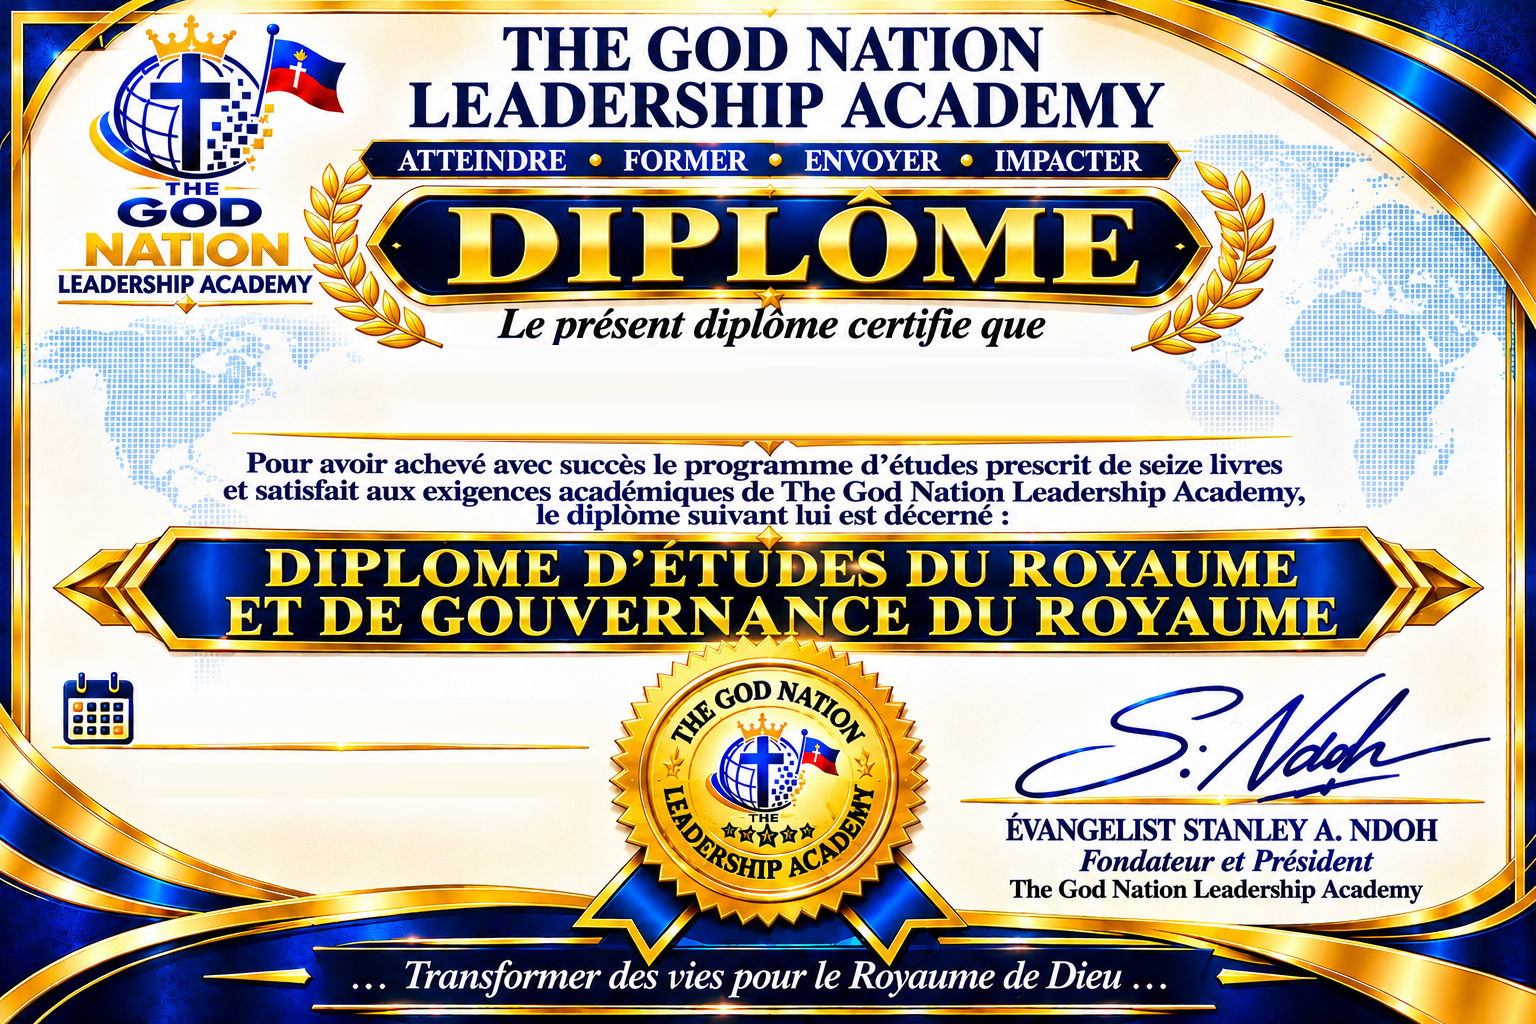
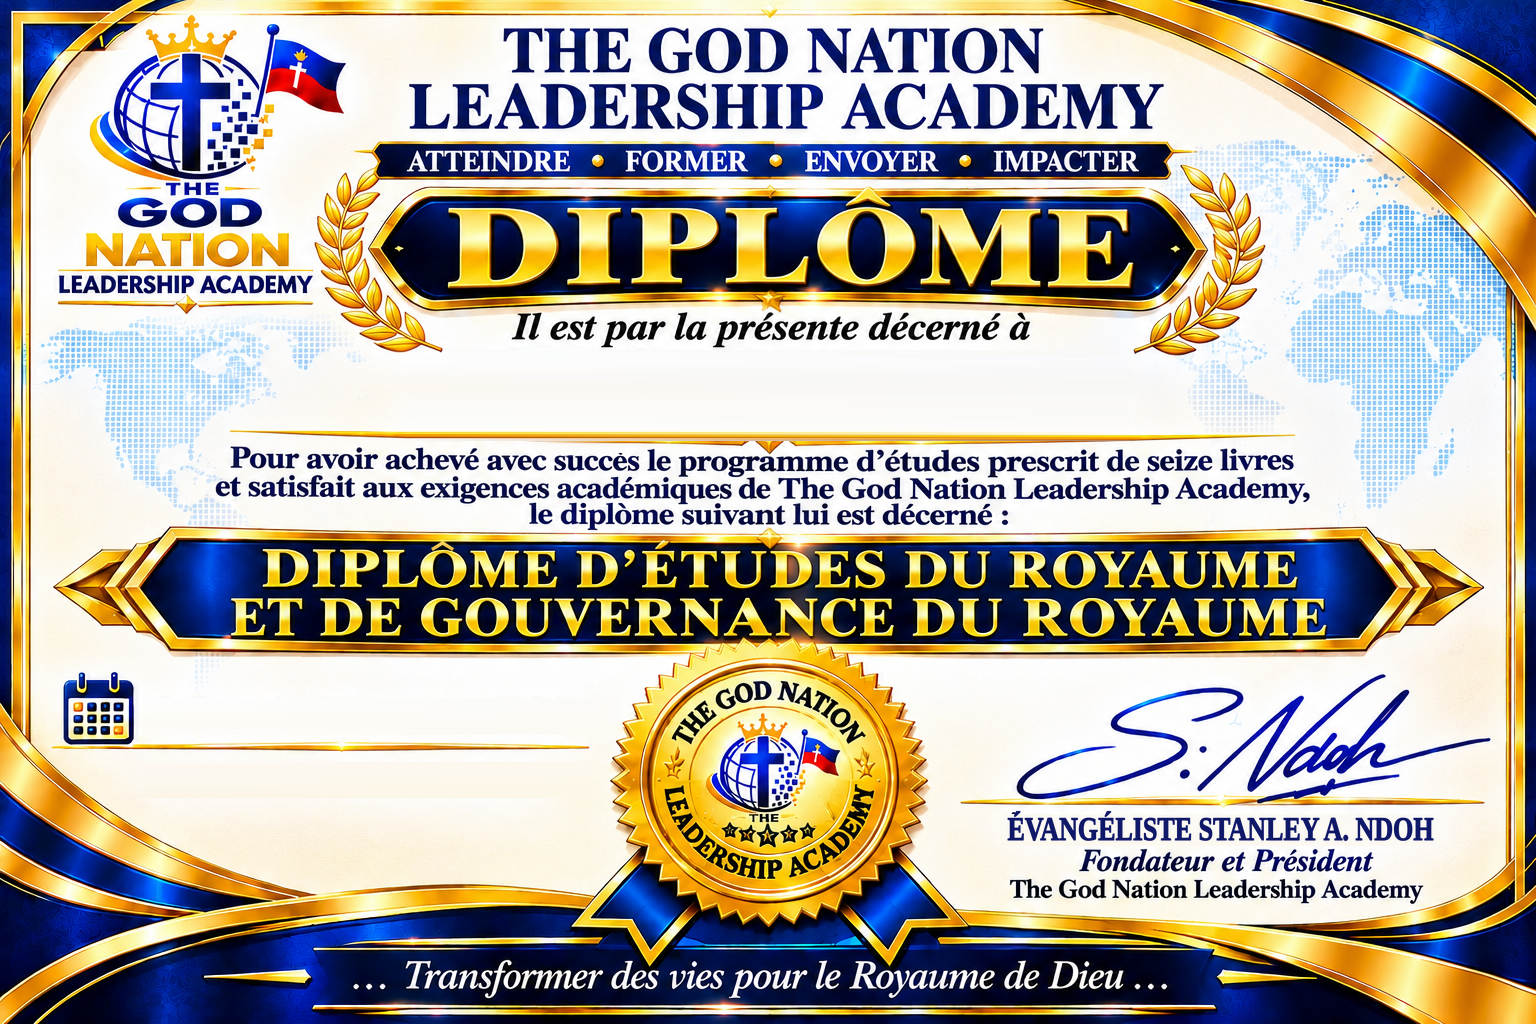
Certificate: newest French design, with the two spelling slips corrected (#90)
* Admin can delete an assembly (typed-name confirmation, Headquarters protected, sub-assemblies move up)

Adds DELETE /api/admin/communities/:id and GET /:id/delete-impact, a Delete
panel in the Communities admin (EN/FR), audit entry COMMUNITY_DELETED, and
server + client tests. People are never deleted, only removed from the assembly.

Claude-Session: https://claude.ai/code/session_013jhgbYLWS3xTqZJzXKnpEP

* Chats page order and tabs, Leadership card for everyone, add-many-people tool, delete moves members

- Leadership card on the Chats page for all members; non-leaders see a locked page pointing to the Leadership School; removed from profile
- Chats: fixed assembly order (HQ, then generations), Assemblies/Private tabs with unread badges, periodic refresh
- Add many people by generation (admin dashboard and central admin profile), new ADDED_TO_ASSEMBLY notification
- Deleting an assembly can move its members to another assembly

Claude-Session: https://claude.ai/code/session_013jhgbYLWS3xTqZJzXKnpEP

* Sanctions: mutes (3/7/15/30 days), lifting rules, request for excuse, removal requests; Leadership Team pinned under HQ in Chats

- MemberSanction and RemovalRequest, notifications, hourly 'mute ended' sweep
- A muted person can read but not write; leaders cannot lift a mute the central admin placed
- Only the central admin decides removals (approve/decline) or removes directly
[…]

diff --git a/docs/LEADERSHIP_SUPERVISION_PLAN.md b/docs/LEADERSHIP_SUPERVISION_PLAN.md
@@ -427,4 +427,4 @@ Decided with the founder, 6 November 2026. Nothing below is built until the foun
 
 **Certificate — follow-up changes.** (1) *Language:* the example and the request follow the language the student reads the app in (French readers see the French design, with a switch to English); previously the account's saved language decided, which was often English for francophones. (2) *Ask in advance:* anyone can fill in the certificate request even before starting to study (the Academy page shows the card to everyone, below "Begin"); they are told plainly that they must pass all 16 books first, the request is saved, and the central admin sees on each open request how far the student is ("5 of 16 books" / "ready to issue"). Issuing before every book is passed needs a second, deliberate yes from the admin (`override`). The admin is notified of a request only when the student has already passed everything. (3) *16 books:* `Settings.trainingBooksTotal` (default 16, editable in Admin → Library → Arrange the curriculum) is the number of books told to students; every count shown (Academy page, Learn card, progress lines, introduction numbers, certificate texts) is the larger of that number and the books really on the site, and a note on the Academy page says how many more will be added. The certificate needs all of them, so nobody can be eligible while only 15 are on the site. Leadership-readiness lists (cells) still count the exams of the books on the site.
 
-**Certificate — corrected designs.** The founder sent corrected English and French designs (new body wording; French tagline "Atteindre · Former · Envoyer · Impacter"; French title "Diplôme d’études du Royaume et de gouvernance du Royaume", which the app's French texts now use). The blank copies in `client/public/certificate/` were remade from them (name, date and number cleared, plus the small marks of the old name's flourishes on the gold line); the drawing positions did not change. Known slips in the French picture itself, to be corrected by the designer: the banner reads "DIPLOME" (should be "DIPLÔME") and the signature line reads "ÉVANGELIST" (should be "ÉVANGÉLISTE").
+**Certificate — corrected designs.** The founder sent corrected English and French designs (new body wording; French tagline "Atteindre · Former · Envoyer · Impacter"; French title "Diplôme d’études du Royaume et de gouvernance du Royaume", which the app's French texts now use). The blank copies in `client/public/certificate/` were remade from them (name, date and number cleared, plus the small marks of the old name's flourishes on the gold line); the drawing positions did not change. The French picture then arrived with a new caption ("Il est par la présente décerné à") but still two slips ("DIPLOME" on the title banner, "ÉVANGELIST" on the signature line); both were corrected on the blank copy by adding the circumflex in gold and redrawing the signature line (`blank-fr.png`). If the designer sends a corrected French picture, replace the file the same way.
